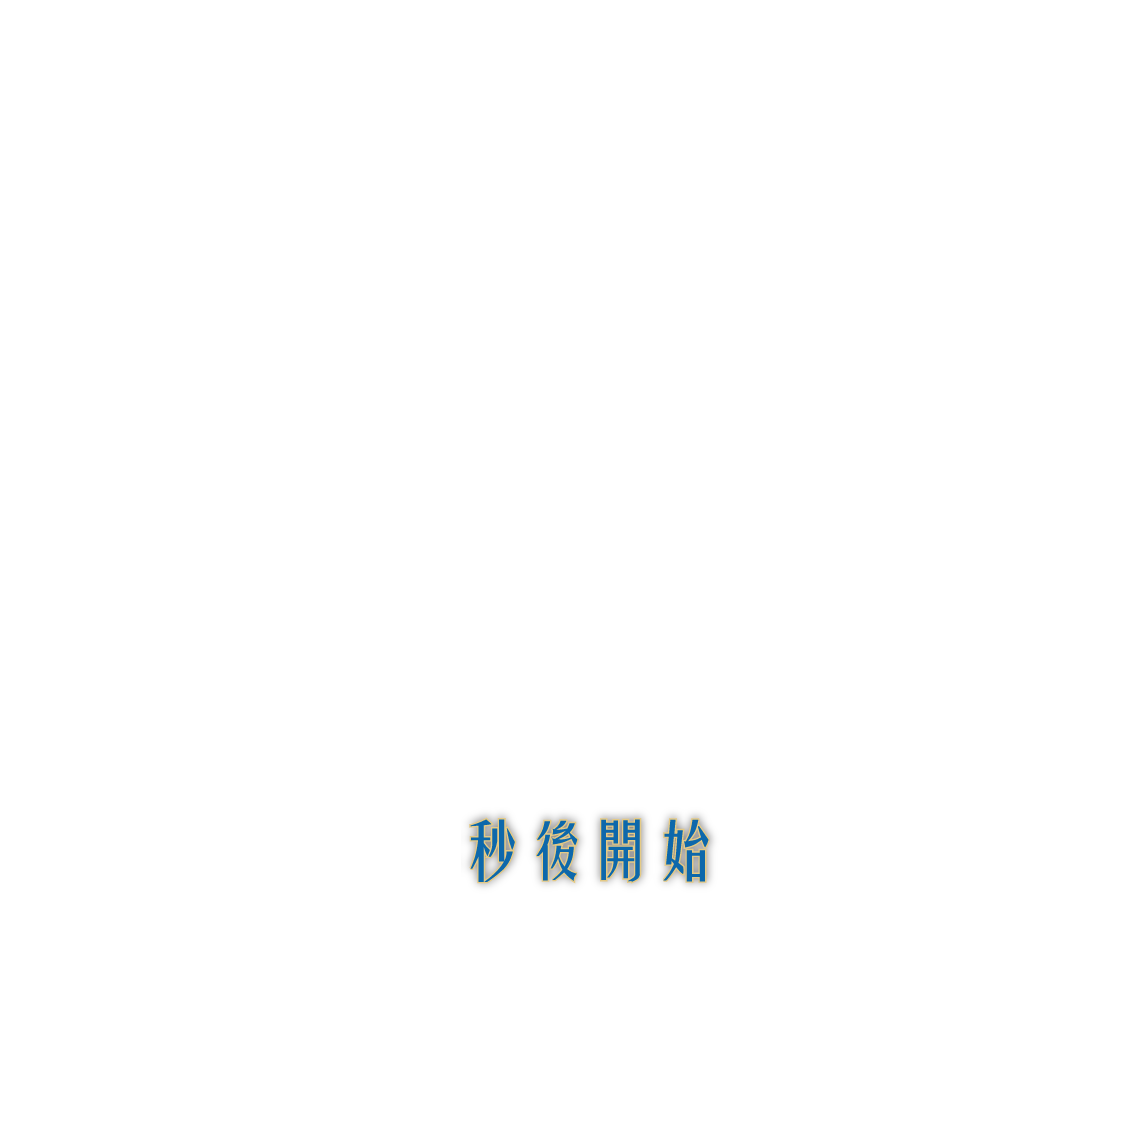
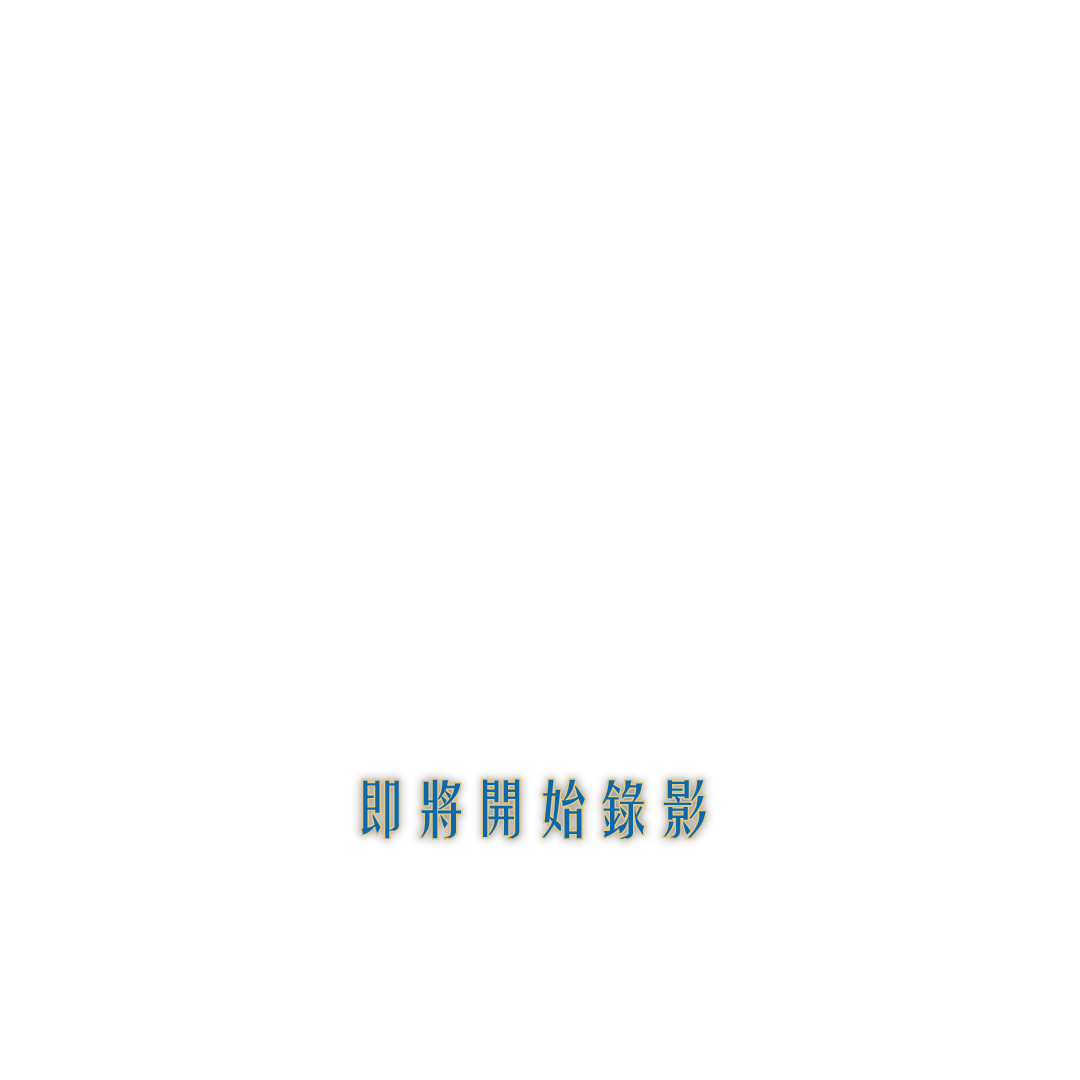
update

Changed region(s): [[0.3056, 0.7028, 0.6722, 0.7944]]

diff --git a/src/ofApp.cpp b/src/ofApp.cpp
@@ -16,7 +16,8 @@ ofColor PFruitRain::_color[]={ofColor(236,152,152),ofColor(238,216,152),ofColor(
 void ofApp::setup(){
 	ofSetVerticalSync(true);
     ofHideCursor();
-	ofSetFullscreen(true);
+	ofLogToFile("log_"+ofGetTimestampString()+".txt");
+	//ofSetFullscreen(true);
 
 	loadScene();
 	setupCamera();
@@ -119,8 +120,6 @@ void ofApp::update(){
 
 //--------------------------------------------------------------
 void ofApp::draw(){
-
-	
 
 		
 	float scale_=ofGetHeight()/(float)WIN_HEIGHT*PParam::val()->ScreenScale;
@@ -300,7 +299,7 @@ void ofApp::keyPressed(int key){
 	switch(key){
 		case 'f':
 		case 'F':
-			ofToggleFullscreen();
+			//ofToggleFullscreen();
 			break;
 		case 'q':
 		case 'Q':
@@ -382,7 +381,7 @@ void ofApp::loadScene(){
 	for(int i=0;i<FRUIT_GROUP;++i)
 		_img_share_text[i].load("_img_ui/share/"+ofToString(i+1)+".png");
 	
-	_qrcode_gen.setColor(ofColor(238,216,152),ofColor(0,0,0,0));
+	_qrcode_gen.setColor(ofColor(0),ofColor(255));
 
 	_soundfx[0].loadSound("sound/check.wav");
 	_soundfx[1].loadSound("sound/count.wav");
@@ -452,7 +451,7 @@ void ofApp::setStage(PStage set_){
 			sendSleepLight();		
 			break;
 		case PAUTH:
-			sendChannelStatus();
+			sendChannelStatus();			
 			break;
 	}
 
@@ -466,7 +465,9 @@ void ofApp::setupCamera(){
 	_finder.setup("haarcascade_frontalface_default.xml");
 	_finder.setPreset(ObjectFinder::Fast);
 	_finder.setFindBiggestObject(true);
-
+	_finder.setMinSizeScale(.25);
+	_finder.setMaxSizeScale(1);
+	//_finder.getTracker().setSmoothingRate(.3);
 
 	_contour_finder.setMinAreaRadius(_camera.getWidth()*PParam::val()->BgdDetectScale*.05);
 	_contour_finder.setMaxAreaRadius(_camera.getWidth()*PParam::val()->BgdDetectScale*.7);
@@ -596,7 +597,7 @@ void ofApp::urlResponse(ofxHttpResponse &resp_){
 			ofNotifyEvent(_event_receive_result,i);
 		}else{
 			//TODO: something wron!!!
-			prepareScene(PSLEEP);
+			//prepareScene(PSLEEP);
 		}
 	}
 	
@@ -615,11 +616,13 @@ void ofApp::parseFaceData(string data_){
 		}
 
 		for(int i=0;i<1;++i){
-			ofRectangle rect_(json_[i]["faceRectangle"]["left"].asInt(),
+			/*ofRectangle rect_(json_[i]["faceRectangle"]["left"].asInt(),
 								json_[i]["faceRectangle"]["top"].asInt(),
 								json_[i]["faceRectangle"]["width"].asInt(),
-								json_[i]["faceRectangle"]["height"].asInt());
+								json_[i]["faceRectangle"]["height"].asInt());*/
 			//_rect_face.push_back(rect_);
+			_user_gender=json_[i]["faceAttributes"]["gender"].asString();
+			_user_age=json_[i]["faceAttributes"]["age"].asFloat();
 
             _idx_user_juice=getJuiceFromEmotion(json_[i]["faceAttributes"]["emotion"]);
 			
@@ -690,13 +693,22 @@ int ofApp::getJuiceFromEmotion(ofxJSONElement emotion_){
 }
 PParam::PJuice ofApp::getJuice(string mood_){
 
+	//return PParam::RED_DRAGON;
+
 	if(mood_=="disgust") return PParam::RED_DRAGON;
-	if(mood_=="neutral") return PParam::HONEY_LEMON;
+	if(mood_=="neutral"){
+		if(ofRandom(2)<1) return PParam::HONEY_LEMON;
+		else return PParam::RED_DRAGON;
+	}
 	if(mood_=="sadness") return PParam::VEGETABLE;
 	if(mood_=="fear") return PParam::BEETROOT;
 	if(mood_=="anger") return PParam::COCONUT;
 	if(mood_=="contempt") return PParam::PINEAPPLE;
-	if(mood_=="happiness") return PParam::ORANGE_PASSION;
+	if(mood_=="happiness"){
+		if(ofRandom(2)<1) return PParam::COCONUT;
+		else return PParam::BEETROOT;
+			//return PParam::ORANGE_PASSION;
+	}
 	if(mood_=="surprise") return PParam::CARROT;
 	else return PParam::EMPTY;
 }
@@ -885,6 +897,8 @@ void ofApp::uploadImage(string id_){
 	form_.addFormField("juice",ofToString(_idx_user_juice));
 	form_.addFormField("channel",ofToString(_idx_channel));
     form_.addFormField("action","upload");
+	form_.addFormField("gender",_user_gender);
+	form_.addFormField("age",ofToString(_user_age));
     
     _http_utils.addForm(form_);
 }
@@ -933,5 +947,5 @@ void ofApp::sendJandiMessage(string message_){
 	form_.contentType="application/json";
 	form_.addFormField("body",message_);
     
-    _http_utils.addForm(form_);
+    //_http_utils.addForm(form_);
 }

diff --git a/src/PSceneDetect.h b/src/PSceneDetect.h
@@ -9,13 +9,15 @@
 
 class PSceneDetect:public SceneBase{
 
-	FrameTimer _timer_count;
+	FrameTimer _timer_count,_timer_delay;
 	FrameTimer _timer_flash;
 	int _num_count;
 	
 	ofImage _img_hint;
-	ofImage _img_text;
-
+	ofImage _img_text[3];
+	int _idx_text;
+	FrameTimer _timer_text;
+	
 	PGlowLine _glow;
 
 	ofImage _img_number[5];
@@ -25,10 +27,15 @@ public:
 		_mlayer=2;
 		_order_scene=2;
 
+		_timer_delay=FrameTimer(1000);
 		_timer_count=FrameTimer(1000);
 		_timer_flash=FrameTimer(100);
 
-		_img_text.loadImage("_img_ui/text_detect.png");
+		_idx_text=0;
+		_timer_text=FrameTimer(2000);
+		for(int i=0;i<3;++i)
+			_img_text[i].loadImage("_img_ui/text_detect-"+ofToString(i+1)+".png");
+
 		_img_hint.loadImage("_img_ui/hint_detect.png");
 
 		for(int i=1;i<=MDETECT_COUNT;++i){
@@ -41,6 +48,9 @@ public:
 		ofAddListener(_timer_flash.finish_event,this,&PSceneDetect::onTimerFlashFinish);
 		ofAddListener(_timer_in[1].finish_event,this,&PSceneDetect::onSceneInFinish);
 
+		ofAddListener(_timer_delay.finish_event,this,&PSceneDetect::onTimerDelayFinish);
+		ofAddListener(_timer_text.finish_event,this,&PSceneDetect::onTimerTextFinish);
+
 		_glow=PGlowLine(WIN_HEIGHT/2,915,160,150,30);
 	}
 	void drawLayer(int i){
@@ -50,19 +60,28 @@ public:
 				_ptr_app->_fruit_rain.drawBack(1);
 #ifdef USE_BACKGROUND_SUB
 				_ptr_app->drawForeground();
-#endif
 				_ptr_app->_fruit_rain.drawFront(1);
-				ofPushStyle();
-				ofSetColor(255,255*ofClamp(1.0-_timer_count.val(),0,1)*getLayerAlpha(0));
-					_img_number[(int)ofClamp(MDETECT_COUNT-1-_num_count,0,MDETECT_COUNT-1)].draw(0,0,WIN_HEIGHT,WIN_HEIGHT);					
-				ofPopStyle();
+#endif				
+				if(_timer_count.isStart()){
+					ofPushStyle();
+					ofSetColor(255,255*ofClamp(1.0-_timer_count.valEaseIn(),0,1)*getLayerAlpha(0));
+						_img_number[(int)ofClamp(MDETECT_COUNT-1-_num_count,0,MDETECT_COUNT-1)].draw(0,0,WIN_HEIGHT,WIN_HEIGHT);					
+					ofPopStyle();
+				}
 
-				_img_text.draw(0,0,WIN_HEIGHT,WIN_HEIGHT);
+				ofPushStyle();
+				ofSetColor(255,255*ofClamp(1.0-_timer_text.valEaseIn(),0,1)*getLayerAlpha(0));
+					_img_text[_idx_text].draw(0,0,WIN_HEIGHT,WIN_HEIGHT);
+				ofPopStyle();
 				break;
 			case 1:
-				_img_hint.draw(0,0,WIN_HEIGHT,WIN_HEIGHT);
-				_glow.draw(getLayerAlpha(1));
-
+				if(_timer_count.isStart()){
+					ofPushStyle();
+					ofSetColor(255,255*ofClamp(1.0-_timer_count.valEaseIn(),0,1)*getLayerAlpha(1));
+						_img_hint.draw(0,0,WIN_HEIGHT,WIN_HEIGHT);
+					ofPopStyle();
+					_glow.draw(getLayerAlpha(1));
+				}
 				ofPushStyle();
 				ofSetColor(255,255*getLayerAlpha(0)*_timer_flash.val());
 					ofDrawRectangle(0,0,WIN_HEIGHT,WIN_HEIGHT);
@@ -74,9 +93,12 @@ public:
 	void update(float dt_){
 		SceneBase::update(dt_);
 
+		_timer_delay.update(dt_);
 		_timer_count.update(dt_);
 		_timer_flash.update(dt_);
 		_glow.update(dt_);
+
+		_timer_text.update(dt_);
 	}
 
 	void init(){
@@ -85,6 +107,8 @@ public:
 		_num_count=0;
 		_timer_flash.reset();
 		_timer_count.reset();
+		_timer_text.reset();
+		_timer_delay.reset();
 	}
 	void onTimerCountFinish(int &e){
 
@@ -105,8 +129,17 @@ public:
 		_ptr_app->prepareScene(ofApp::PANALYSIS);			
 	}
 	void onSceneInFinish(int &e){
-		_timer_count.restart();
 		
+		_timer_text.restart();
+		_timer_delay.restart();		
+	}
+	void onTimerTextFinish(int &e){				
+
+		(++_idx_text)%=3;
+		_timer_text.restart();
+	}
+	void onTimerDelayFinish(int &e){
+		_timer_count.restart();
 		_ptr_app->setRecord(true);
 		_ptr_app->playSound(ofApp::PSound::SCOUNT);
 	}

diff --git a/src/PSceneAuth.h b/src/PSceneAuth.h
@@ -9,12 +9,12 @@
 class PSceneAuth:public SceneBase{
 
 	FrameTimer _timer_hint;
-	//FrameTimer _timer_confirm;
+	//FrameTimer _timer_blink;
 
 	int _num_timer;
 
 	ofImage _img_hint;
-	ofImage _img_text[MAUTH_COUNT];
+	ofImage _img_text;
 	ofImage _img_confirm;
 
 	PGlowLine _glow;
@@ -22,14 +22,15 @@ class PSceneAuth:public SceneBase{
 
 public:
 	PSceneAuth(ofApp* set_):SceneBase(set_){
-		_mlayer=1;
+		_mlayer=2;
 		_order_scene=1;
 
 		_timer_hint=FrameTimer(2000);
-		//_timer_confirm=FrameTimer(3000);
+		//_timer_blink=FrameTimer(1200);
+		//_timer_blink.setContinuous(true);
 
 		_img_hint.loadImage("_img_ui/hint_auth.png");
-		
+		_img_text.loadImage("_img_ui/text_auth.png");
 		/*for(int i=0;i<MAUTH_COUNT;++i)
 			_img_text[i].loadImage("_img_ui/text_auth/"+ofToString(i+1)+".png");
 
@@ -46,7 +47,7 @@ public:
 	}
 	void drawLayer(int i){		
 		switch(i){
-			case 0:
+			case 1:
 				// countdown
 				//ofPushStyle();
 				//ofSetColor(255,255*ofClamp(1.0-_timer_hint.val(),0,1)*getLayerAlpha(0));
@@ -55,6 +56,12 @@ public:
 				//ofPopStyle();
 				_img_hint.draw(0,0,WIN_HEIGHT,WIN_HEIGHT);
 				_glow.draw(getLayerAlpha(0));
+				break;
+			case 0:
+				//ofPushStyle();
+				//ofSetColor(255,255*ofClamp(1.0-_timer_blink.val()*.8,0,1)*getLayerAlpha(i));				
+					_img_text.draw(0,0,WIN_HEIGHT,WIN_HEIGHT);
+				//ofPopStyle();
 				break;
 			/*case 1:
 				ofPushStyle();
@@ -82,7 +89,7 @@ public:
 				_ptr_app->playSound(ofApp::PSound::SCHECK);
 			}
 		}*/
-
+		//_timer_blink.update(dt_);
 		_glow.update(dt_);
 	}
 
@@ -94,6 +101,7 @@ public:
 
 	void onSceneInFinish(int &e){
 		_timer_hint.restart();
+		//_timer_blink.restart();
 		//_ptr_app->playSound(ofApp::PSound::SCHECK);
 	}
 	void onTimerHintFinish(int &e){

diff --git a/src/ofApp.h b/src/ofApp.h
@@ -12,7 +12,6 @@
 #define WIN_HEIGHT 1080
 #define FRUIT_GROUP 8
 
-
 #include "ofMain.h"
 
 #include "ofxCv.h"
@@ -81,6 +80,8 @@ class ofApp : public ofBaseApp{
 
 		string _user_id;
 		int _idx_user_juice,_idx_channel;
+		string _user_gender;
+		int _user_age;
 
 		void createUserID();
 

diff --git a/src/PSceneSleep.h b/src/PSceneSleep.h
@@ -5,7 +5,7 @@
 #include "PSceneBase.h"
 #include "PGlowLine.h"
 
-#define FACE_DETECT_FRAME 4000
+#define FACE_DETECT_FRAME 2000
 #define FACE_ANIMATION_LEGNTH 360
 #define FACE_ANIMATION_FPS 30
 
